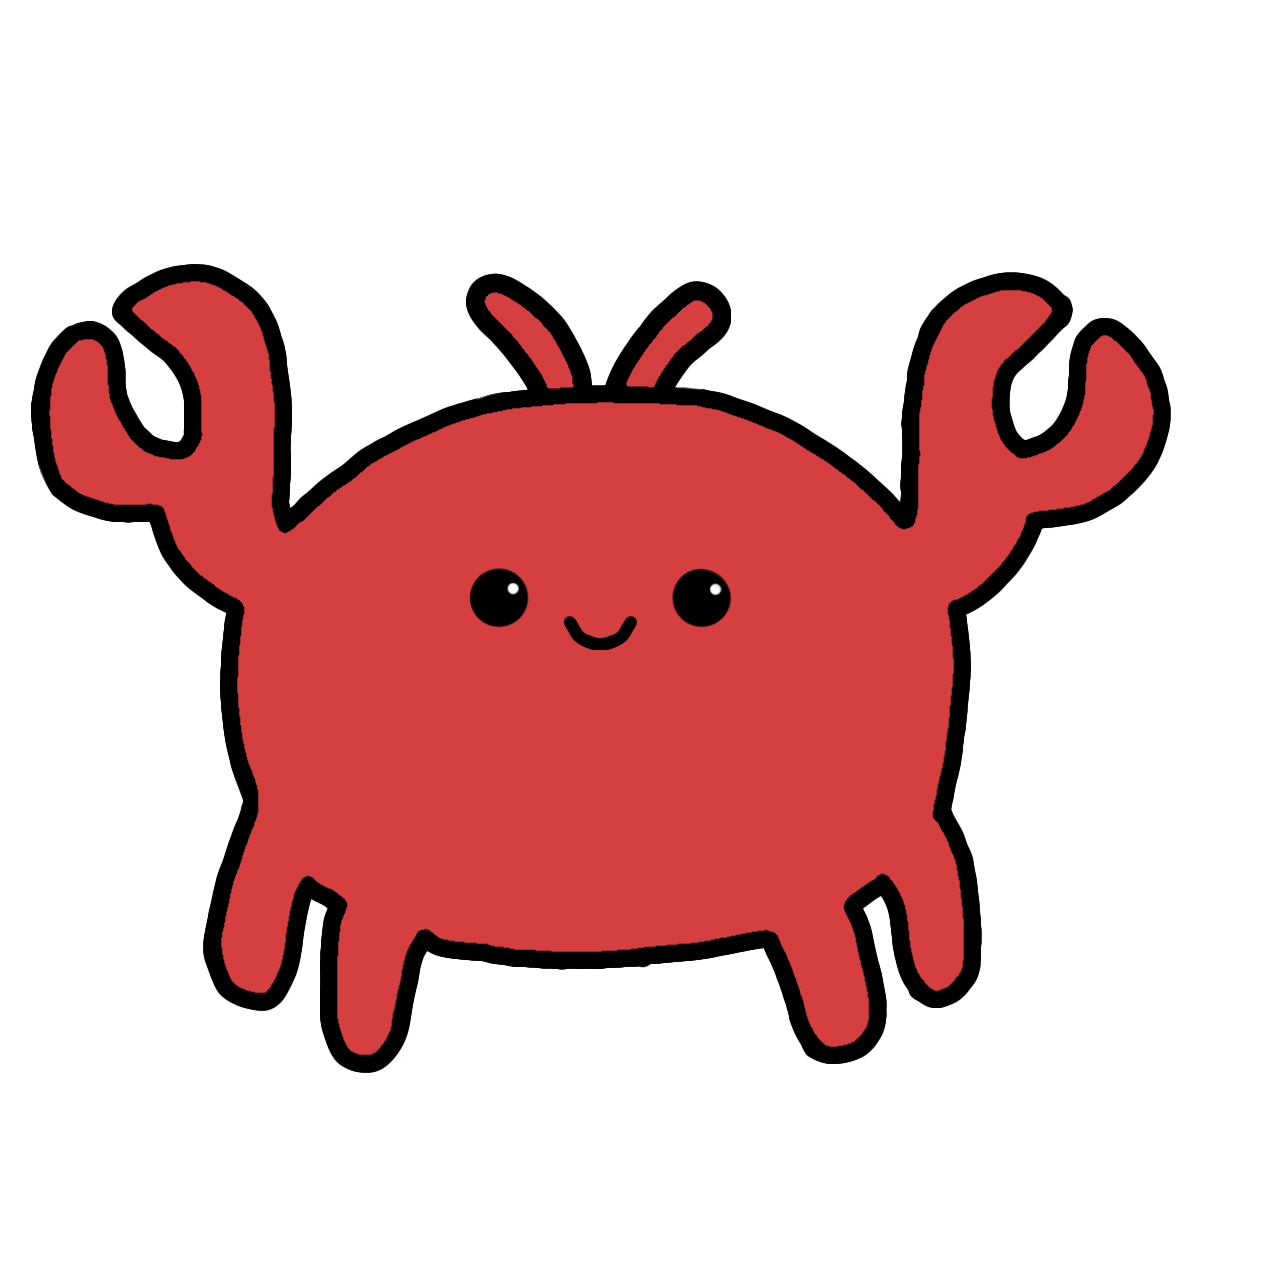
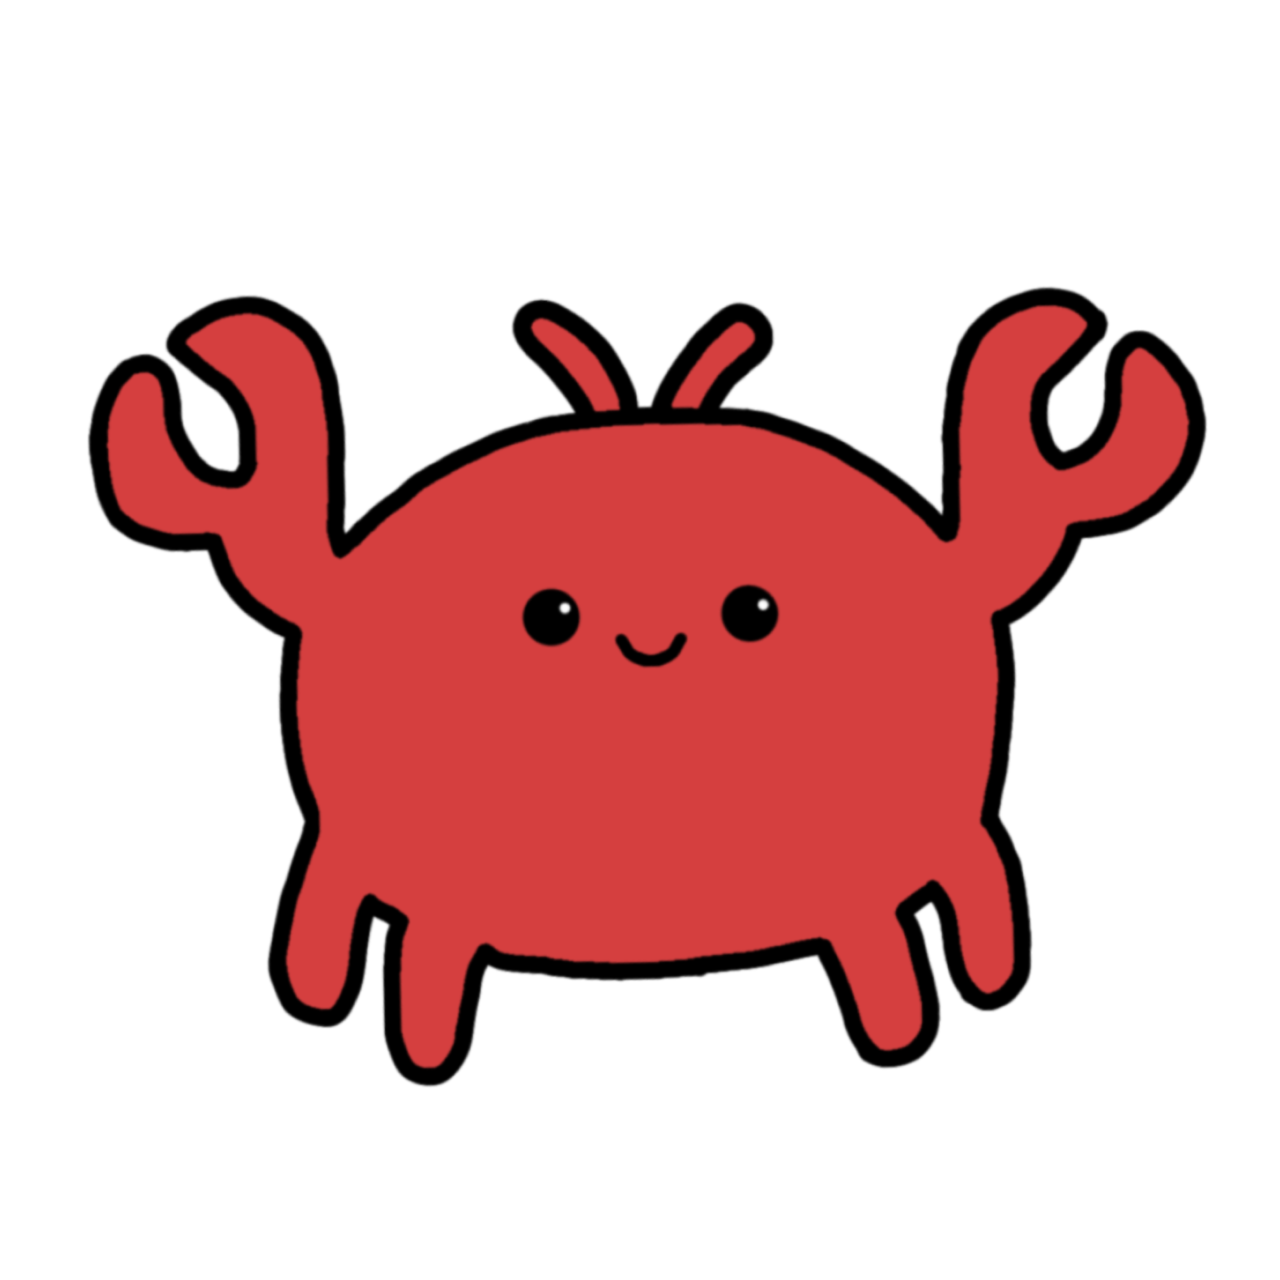
Added changing monsterButton then clicked

Changed region(s): [[0.0, 0.1875, 0.9688, 0.875], [0.3438, 0.4375, 0.5312, 0.5312], [0.5312, 0.4375, 0.625, 0.5]]

diff --git a/main.qml b/main.qml
@@ -1,29 +1,49 @@
-import QtQuick 2.12
-import QtQuick.Controls 2.5
-import QtQuick.Layouts 1.3
+import QtQuick 2.12;
+import QtQuick.Controls 2.5;
+import QtQuick.Layouts 1.3;
 
-ApplicationWindow {
+
+ApplicationWindow
+{
     id: window
     visible: true
 
     Image
     {
         id: background
-        z: -1
         visible: true
         anchors.fill: parent
         source: "qrc:/img/img/Background.png"
+        z: -1
     }
-    ToolButton {
 
-        icon.width: 640
-        icon.height: 640
-        icon.source: "qrc:/img/img/Crab.png"
+    Button
+    {
+        id: btn_crab
+        y: 40
+        width: 400
+        height: 400
+        anchors.verticalCenter: parent.verticalCenter
+        anchors.horizontalCenter: background.horizontalCenter
+        transformOrigin: Item.Center
+        signal monsterClicked
+        background: transientParent
+
+        Image
+        {
+            id: crab
+            anchors.fill: parent
+            source: btn_crab.pressed? "qrc:/img/img/Crab.png" : "qrc:/img/img/Jellyfish.png";
+
+        }
+
+
+
     }
 }
 
 /*##^##
 Designer {
-    D{i:0;autoSize:true;formeditorZoom:1.75;height:480;width:640}
+    D{i:0;autoSize:true;formeditorZoom:0.66;height:480;width:640}D{i:2}
 }
 ##^##*/

diff --git a/main.cpp b/main.cpp
@@ -3,6 +3,8 @@
 
 #include <QLocale>
 #include <QTranslator>
+#include <QQuickView>
+#include <QObject>
 
 int main(int argc, char *argv[])
 {
@@ -30,6 +32,8 @@ int main(int argc, char *argv[])
             QCoreApplication::exit(-1);
     }, Qt::QueuedConnection);
     engine.load(url);
+
+
 
     return app.exec();
 }
